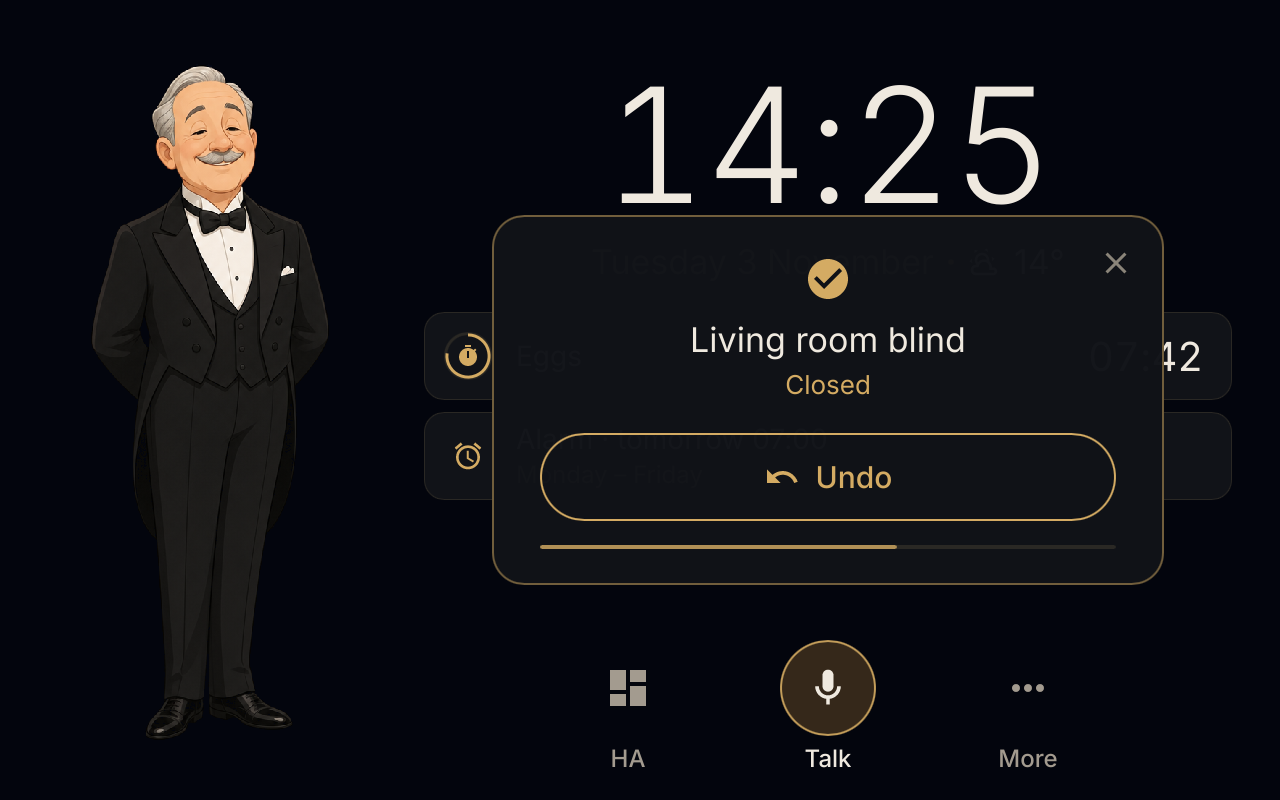
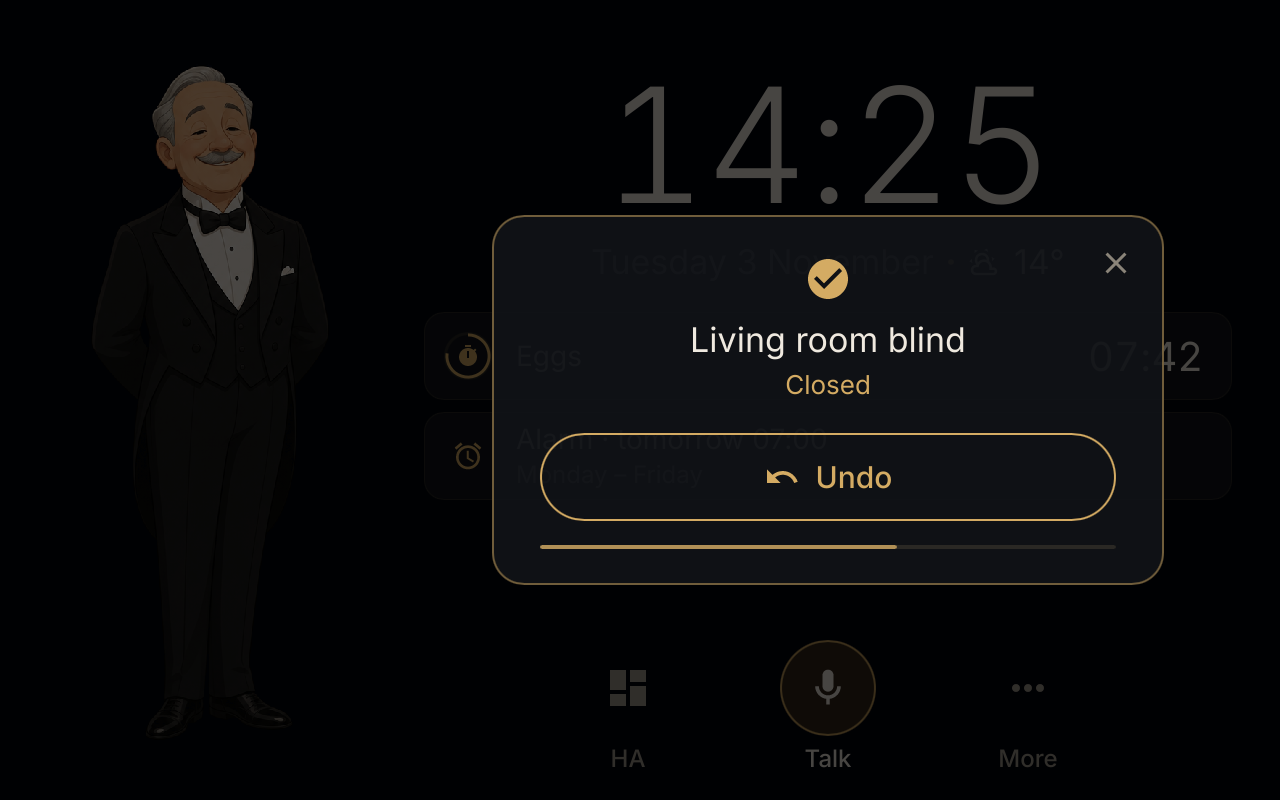
README for 0.2.0, reviewed
A new order (home, talk, timers, the house, control centre and do not disturb, memories
and lists, Home Assistant, AirPlay, setup, the Home Assistant page) with 19 pictures on
sample data; install and build for 0.2.0, thinksmart-view-debian v0.4 recommended.

diff --git a/README.md b/README.md
@@ -3,7 +3,7 @@
 A **lightweight voice companion for Home Assistant** that turns an old smart display into a desk assistant with
 a face: a wake word heard on the device, an animated character on the screen, local timers and alarms, AirPlay
 music and screen mirroring, and your Home Assistant dashboard one tap away. The thinking is done by **the AI you
-already set up in Home Assistant** (Google Gemini, OpenAI, Anthropic, a local model): no API key on the device,
+already set up in Home Assistant** (Google Gemini, OpenAI, Anthropic): no API key on the device,
 no cloud of ours.
 
 The first device is the Lenovo ThinkSmart View (2 GB, a phone-class Snapdragon) running
@@ -23,23 +23,62 @@ If this project saved you some time, you can also
 
 ## What it does
 
+### 🏠 The home screen
+
+Alfred on a third of the screen; next to him the clock, the date and Home Assistant's weather, and one card per
+thing that matters now: a due reminder, the running timers, the next alarm, the next calendar event, what AirPlay is
+playing, a mirrored screen to go back to. Below: **HA**, **Talk** and **More**. A tap on the weather opens the
+forecast. Settings → Screen has a compact home, with room for a fourth card.
+
+At night Alfred sleeps: the clock stays, dimmed, with the next alarm, and a touch brings the home back for a few
+seconds. By day the brightness follows the room's light. When Home Assistant does not answer, the home says so and
+retries by itself; timers and alarms go on working.
+
+<p align="center">
+<img src="docs/images/night.png" width="400" alt="The night screen: Alfred asleep in his nightcap, the dimmed clock at 23:48 and the next alarm at 07:00"> <!-- state: night -->
+<img src="docs/images/offline.png" width="400" alt="Home Assistant is not answering: Alfred on a deckchair under a beach umbrella, the card says he retries by himself and that timers and alarms work"> <!-- state: offline -->
+</p>
+
 ### 🗣 Talk to it
 
-Say **"Okay Alfred"**: the wake word is heard on the device, and no audio leaves it before that. Your question
-goes to Home Assistant's own voice pipeline (your speech-to-text, your AI agent, your voice) and Alfred answers on
-the screen and out loud. "Stop" or "basta" interrupts him; after a question of his, a "no thanks" closes it.
+Say **"Okay Alfred"**, or tap Talk: the wake word is heard on the device, and no audio leaves it before that. Your
+question goes to Home Assistant's own voice pipeline (your speech-to-text, your AI agent, your voice) and Alfred
+answers on the screen and out loud. "Stop" or "basta" interrupts him; "repeat" says the last answer again; after a
+question of his, a "no thanks" closes it.
 
-<p align="center"><img src="docs/images/speaking.png" width="640" alt="Alfred answering: how long do I boil eggs for"></p>
+If he woke up by mistake, **False alarm** next to Stop ends it and keeps that recording on the device, to train
+the wake word better.
 
-**Reflexes**: the time, timers, alarms, the volume and the music ("what time is it", "set a timer for 10 minutes",
-"next song") are understood **on the device** (Vosk with a closed grammar): instant, and they work with the Wi-Fi
-down. Anything else goes to Home Assistant.
+<p align="center">
+<img src="docs/images/listening.png" width="400" alt="Alfred with a hand to his ear: I'm listening, with the Stop and False alarm buttons"> <!-- state: listening -->
+<img src="docs/images/speaking.png" width="400" alt="Alfred answering: how long do I boil eggs for"> <!-- state: speaking -->
+</p>
 
-**Tools for your AI**: the device lends Home Assistant's agent its own tools over HA's built-in MCP client —
-memories, reminders, the shopping list, timers and alarms, and the house **with safety gates** (covers and valves
-only after a "yes"; locks, alarms, doors and gates never by voice).
+**Reflexes**: the time, timers, alarms, the volume, the music and the screen ("what time is it", "set a timer for
+10 minutes", "next song", "turn off the screen") are understood **on the device** (Vosk with a closed grammar):
+instant, and they work with the Wi-Fi down. Their answers are spoken in Home Assistant's voice, kept on the device
+once heard. Anything else goes to Home Assistant.
 
-Your scripts exposed to Assist work as tools, and your automations' sentence triggers still run first (Home Assistant checks them before the AI agent, even with "prefer local intents" off, whenever the request comes through the voice pipeline; only the answer to a follow-up question goes straight to the agent).
+**Tools for your AI**: the device lends Home Assistant's agent its own tools over HA's built-in MCP client:
+memories, reminders, lists, timers and alarms, do not disturb, and the house **with safety gates**.
+
+More → **What to say** lists examples of each kind on the screen.
+
+### ⏱ Timers, alarms and reminders, on the device
+
+Timers and alarms live **on the device**: "set a pasta timer for 10 minutes", "wake me up at 7", "what timers do I
+have", "how long is left for the pasta", "cancel the timer" are reflexes, understood locally and done at once, and
+they ring even with the Wi-Fi or Home Assistant down. Several timers at a time, each with its name, pause and
+resume, alarms on chosen days; the last ten seconds tick and a named timer says its name when it rings. Home
+Assistant sees them as the satellite's timers.
+
+Reminders come from your AI ("remind me to call mum at five"): Alfred keeps them on the device and, when one is
+due, shows it full screen with a chime until you tap OK, or say "stop", or put it off ten minutes.
+
+<p align="center">
+<img src="docs/images/timers.png" width="400" alt="Timers and alarms: two timers, one paused, and two alarms with their days"> <!-- state: timers -->
+<img src="docs/images/reminder-due.png" width="400" alt="A due reminder full screen: Call mum, at 14:25, with OK and In 10 minutes"> <!-- state: reminder-due -->
+</p>
 
 ### 💡 The house, with a safety net
 
@@ -50,37 +89,44 @@ or no by voice or with a tap; after a spoken yes you have two seconds to take it
 says what was done, with Undo. Locks, alarms, doors and gates are never moved by voice.
 
 <p align="center">
-<img src="docs/images/house-ask.png" width="400" alt="Living room blind: close it? No and Yes, and the time left to answer">
-<img src="docs/images/house-done-asked.png" width="400" alt="The same window after the yes: Living room blind, Closed, with Undo and its time">
+<img src="docs/images/house-ask.png" width="400" alt="Living room blind: close it? No and Yes, and the time left to answer"> <!-- state: house-ask -->
+<img src="docs/images/house-done-asked.png" width="400" alt="The same window after the yes: Living room blind, Closed, with Undo and its time"> <!-- state: house-done-asked -->
 </p>
 
-### 🏠 The home screen
+### 🔕 The control centre and do not disturb
 
-The clock, the date and Home Assistant's weather, and one card per thing that matters now: a due reminder, the
-running timers, the next alarm, what AirPlay is playing, a mirrored screen to go back to. Below: **HA**, **Talk**
-and **More** (memories, reminders, shopping, settings); a pull from the top edge opens the control centre (volume,
-brightness, microphone, AirPlay, night). At night only the clock stays, dimmed;
-the brightness follows the room's light.
+A pull from the top edge opens the control centre: Wi-Fi, AirPlay, the microphone, night mode, do not disturb and
+the link to Home Assistant, each a tile that says how it stands; under them the volume, the brightness (by hand or
+automatic) and what is playing.
 
-### ⏱ Timers, alarms and reminders, on the device
+**Do not disturb**, from its tile or by voice ("do not disturb for an hour", "good night"), silences the cards'
+sounds and the announcements; timers and alarms still ring. A bell asleep on a cushion at Alfred's feet shows it
+is on.
 
-Timers and alarms live **on the device**: "set a timer for 10 minutes", "wake me up at 7", "how much time is left",
-"cancel the timer" are reflexes, understood locally and done at once, and they ring even with the Wi-Fi or Home
-Assistant down. Several timers at a time, pause and resume, alarms on chosen days; Home Assistant sees them as the
-satellite's timers.
-
-Reminders come from your AI ("remind me to call mum at five"): Alfred keeps them on the device and, when one is
-due, shows it full screen with a chime until you tap OK, or say "stop", or put it off ten minutes.
+The **microphone switch** on top of the ThinkSmart View cuts the microphones in hardware; the screen shows it with
+a red "Microphone off" over the clock, and the control centre's tile says who switched it off.
 
 <p align="center">
-<img src="docs/images/timers.png" width="400" alt="Timers and alarms: two timers, one paused, and two alarms with their days">
-<img src="docs/images/reminder-due.png" width="400" alt="A due reminder full screen: Call mum, at 14:25, with OK and In 10 min">
+<img src="docs/images/control.png" width="400" alt="The control centre: tiles for Wi-Fi, Bluetooth, AirPlay, Microphone, Night, Do not disturb and HA, the volume and brightness bars, the song that is playing"> <!-- state: control-music -->
+<img src="docs/images/dnd.png" width="400" alt="The home with do not disturb on: Do not disturb until 07:00 over the clock and a bell on a red cushion at Alfred's feet"> <!-- state: dnd -->
 </p>
+
+### 🧠 Memories, reminders and lists
+
+What you tell Alfred to remember ("remember that the boiler is in the cellar") is kept **on the device** and tidied
+at night; More → Memories shows all of it, one tap forgets a memory, another forgets everything. Conversations are
+kept on the screen too, if you want them (Settings → Keep conversations).
+
+Lists and calendars are Home Assistant's: "add milk to the shopping list" writes to a `todo.*` list (Home
+Assistant's own, Bring!, ...), and the home's next card reads your `calendar.*` calendars. Home Assistant page →
+"Lists and calendars" has a switch for each; all of them are used until you switch some off, and several lists make
+a section each on the Shopping page.
 
 ### 📊 Home Assistant on the screen
 
 Your Home Assistant dashboard full screen, kept loaded in the background so it opens at once. The gold button, or
-a swipe from its edge, brings you back to Alfred; "Okay Alfred" still works over it.
+a swipe from its edge, brings you back to Alfred; "Okay Alfred" still works over it. "Show me the front door
+camera", or the name of a dashboard, opens it by voice.
 
 <p align="center">
 <img src="docs/images/home-assistant-3d.png" width="400" alt="A 3D floor plan of a house in Home Assistant, with its lights, covers, speaker and thermostat, and the gold home button">
@@ -88,7 +134,51 @@ a swipe from its edge, brings you back to Alfred; "Okay Alfred" still works over
 </p>
 <p align="center"><sub>A test Home Assistant with its demo devices.</sub></p>
 
-#### Cards from Home Assistant
+### 🎵 AirPlay: music and screen mirroring
+
+Pick the device in the AirPlay menu of an iPhone, an iPad or a Mac. **Music** shows its cover, title and artist,
+can be paused and skipped from the screen or by voice, and the phone's volume slider is the device's volume; the
+music goes quiet while Alfred listens, and a gramophone plays at his feet. **Screen mirroring** uses the hardware
+video decoder: upright, Alfred and the controls stay at the sides; sideways, the picture fills the screen and the
+controls come with a tap.
+
+<p align="center">
+<img src="docs/images/airplay.png" width="400" alt="A phone mirrored over AirPlay: the home button and Alfred on the left, the phone in the middle, the time, the controls and the volume on the right"> <!-- state: mirror-portrait -->
+<img src="docs/images/music.png" width="400" alt="AirPlay music: the cover, the title and the artist under it, the bar with previous, pause and next, the gramophone at Alfred's feet"> <!-- state: music -->
+</p>
+
+### 🔗 Set up from the screen
+
+At the first start the screen asks the language, finds Home Assistant on the network and shows a QR code: open it
+with a phone logged in to Home Assistant and the device sets itself up there: the Wyoming satellite, its tools
+over MCP, Alfred's agent under your AI and his voice pipeline. Nothing to type, nothing to copy.
+
+<p align="center">
+<img src="docs/images/setup-found.png" width="400" alt="Where is Home Assistant? Found on this network: two instances to tap, with Search again and Later"> <!-- state: first-ha-found -->
+<img src="docs/images/setup-qr.png" width="400" alt="Let's link Home Assistant: a QR code and three steps, scan, allow, done"> <!-- state: setup -->
+</p>
+
+### 🎛 The Home Assistant page
+
+More → Home Assistant is where the link is looked after. Choose the AI Alfred thinks with, the speech-to-text, the
+text-to-speech and the voice among those your Home Assistant has; **Check and repair** looks at every step of the
+setup again and redoes what is missing; **Unlink** takes away what the device added to Home Assistant.
+
+**AI use** shows what the conversations cost: today, this month and the last 30 days. It is an estimate from
+reference prices, or the real numbers if your AI in Home Assistant is the
+[OpenAI with Token & Cost Tracking](https://github.com/m0s4ik/ha-openai-usage) integration.
+
+<p align="center">
+<img src="docs/images/ha-page.png" width="400" alt="The Home Assistant page: Intelligence, Speech-to-text, Text-to-speech and Voice with what is in use, the AI's cost today, Check and repair, Unlink"> <!-- state: ha -->
+<img src="docs/images/ai-use.png" width="400" alt="AI use: today's cost, this month's, requests and tokens, and a bar chart of the last 30 days"> <!-- state: usage-precise -->
+</p>
+
+### 🪶 Light
+
+Written in Rust for a 2 GB device. On the ThinkSmart View the body uses ~120 MB, the reflexes ~140 MB and the
+preloaded dashboard ~450 MB, on a system that uses 190 MB by itself.
+
+## From your automations
 
 An automation or a script can put a card on the home screen with Home Assistant's built-in `event` action, nothing
 to install:
@@ -106,42 +196,7 @@ event_data:
 ```
 
 The card plays the soft reminder sound by day and goes away with its OK. `home_companion_card_dismiss` with an `id`
-takes a card away. The home's "next" card shows the next calendar event or reminder, whichever is first, and
-tapping the weather opens the forecast.
-
-#### Lists and calendars
-
-Home Assistant page → "Lists and calendars": every `todo.*` list (Home Assistant's own, Bring!, ...) and every
-`calendar.*` calendar Home Assistant has, each with a switch. All of them are shown until you switch some off; several
-lists make a section each on the shopping page.
-
-### 🎵 AirPlay: music and screen mirroring
-
-Pick the device in the AirPlay menu of an iPhone, an iPad or a Mac. **Music** shows its title and cover, can be
-paused and skipped from the screen or by voice, and the phone's volume slider is the device's volume; the music
-goes quiet while Alfred listens. **Screen mirroring** uses the hardware video decoder: upright, Alfred and the
-controls stay at the sides; sideways, the picture fills the screen and the controls come with a tap.
-
-<p align="center">
-<img src="docs/images/airplay.png" width="400" alt="A phone mirrored over AirPlay: the home button and Alfred on the left, the phone in the middle, the time, the controls and the volume on the right">
-<img src="docs/images/music.png" width="400" alt="AirPlay music: the cover, the title and the artist under it, the bar with previous, pause and next, the gramophone at Alfred's feet">
-</p>
-
-### 🔗 Set up from the screen
-
-At the first start the screen asks the language, finds Home Assistant on the network and shows a QR code: open it
-with a phone logged in to Home Assistant and the device sets itself up there — the Wyoming satellite, its tools
-over MCP, Alfred's agent under your AI and his voice pipeline. Nothing to type, nothing to copy.
-
-<p align="center">
-<img src="docs/images/setup-qr.png" width="400" alt="Let's link Home Assistant: a QR code and three steps, scan, allow, done">
-<img src="docs/images/setup-done.png" width="400" alt="The Home Assistant page once linked: the AI, speech-to-text, text-to-speech and voice in use, the AI's cost today, Check and repair, Unlink">
-</p>
-
-### 🪶 Light
-
-Written in Rust for a 2 GB device. On the ThinkSmart View the body uses ~120 MB, the reflexes ~140 MB and the
-preloaded dashboard ~450 MB, on a system that uses 190 MB by itself.
+takes a card away.
 
 ## How it works
 
@@ -160,16 +215,20 @@ Home Assistant does the thinking; the device is its body. Only what a normal Hom
 used: Wyoming, the MCP client, the WebSocket API with the token from the QR link, `ai_task`. No add-ons, no MQTT,
 no second key.
 
+Your scripts exposed to Assist work as tools. Your automations' sentence triggers still run first: Home Assistant
+checks them before the AI agent whenever the request comes through the voice pipeline, even with "prefer local
+intents" off. Only the answer to a follow-up question goes straight to the agent.
+
 ## Install
 
 You need a **Lenovo ThinkSmart View with [thinksmart-view-debian](https://github.com/m0s4ik/thinksmart-view-debian)
-v0.3-rc3 or later**, built with `WEB=1` (the Home Assistant view) and `AIRPLAY=1` (AirPlay) if you want them. The
+v0.4** (v0.3-rc3 or later works), built with `WEB=1` (the Home Assistant view) and `AIRPLAY=1` (AirPlay) if you want them. The
 system image is where the Wi-Fi and your ssh key are set. Then, on the device:
 
 ```sh
-curl -LO https://github.com/m0s4ik/home-companion/releases/download/v0.1.0/home-companion-0.1.0-arm64.tar.gz
-tar xzf home-companion-0.1.0-arm64.tar.gz
-cd home-companion-0.1.0-arm64 && ./install.sh
+curl -LO https://github.com/m0s4ik/home-companion/releases/download/v0.2.0/home-companion-0.2.0-arm64.tar.gz
+tar xzf home-companion-0.2.0-arm64.tar.gz
+cd home-companion-0.2.0-arm64 && ./install.sh
 ```
 
 The installer asks nothing: it checks the system (it never lets apt replace the image's Mesa), installs the
@@ -177,13 +236,16 @@ programs and the services, downloads the speech models of every language and sta
 language → Home Assistant (found on the network) → QR code. Options (`--language`, `--ha-url`, `--no-airplay`,
 `--uninstall`, `--dry-run`…) and the manual steps are in [packaging/README.md](packaging/README.md).
 
+**Updating** is the same three lines with the new version: an installed one is updated in place and its settings
+stay.
+
 To change the Wi-Fi later: `nmcli device wifi connect "<ssid>" password "<password>"` on the device.
 
 ## Languages
 
 Italian and English, complete: the screen (`locales/`), the reflexes' grammar
 (`characters/alfred/grammar/`) and the speech model the installer downloads. With any other language set in Home
-Assistant, the device still works — Home Assistant answers in its language — without the local reflexes.
+Assistant, the device still works (Home Assistant answers in its language) without the local reflexes.
 
 Adding a language: a `locales/<lang>.toml`, a `characters/alfred/grammar/<lang>.toml`, the number words in
 `crates/reflex/src/slots.rs`, and the [Vosk model](https://alphacephei.com/vosk/models) in the installer's
@@ -196,7 +258,7 @@ Cross-compiled from an amd64 Debian 13 with the arm64 multiarch libraries:
 ```sh
 cargo build --release --target aarch64-unknown-linux-gnu -p home-companion --no-default-features --features fbdev,gpu
 cargo run -p home-companion -- --simulator          # the screen in a window on a laptop
-tools/release/build-bundle.sh 0.1.0                 # the release bundle
+tools/release/build-bundle.sh 0.2.0                 # the release bundle
 ```
 
 Contributing, with or without a coding assistant: [AGENTS.md](AGENTS.md).
